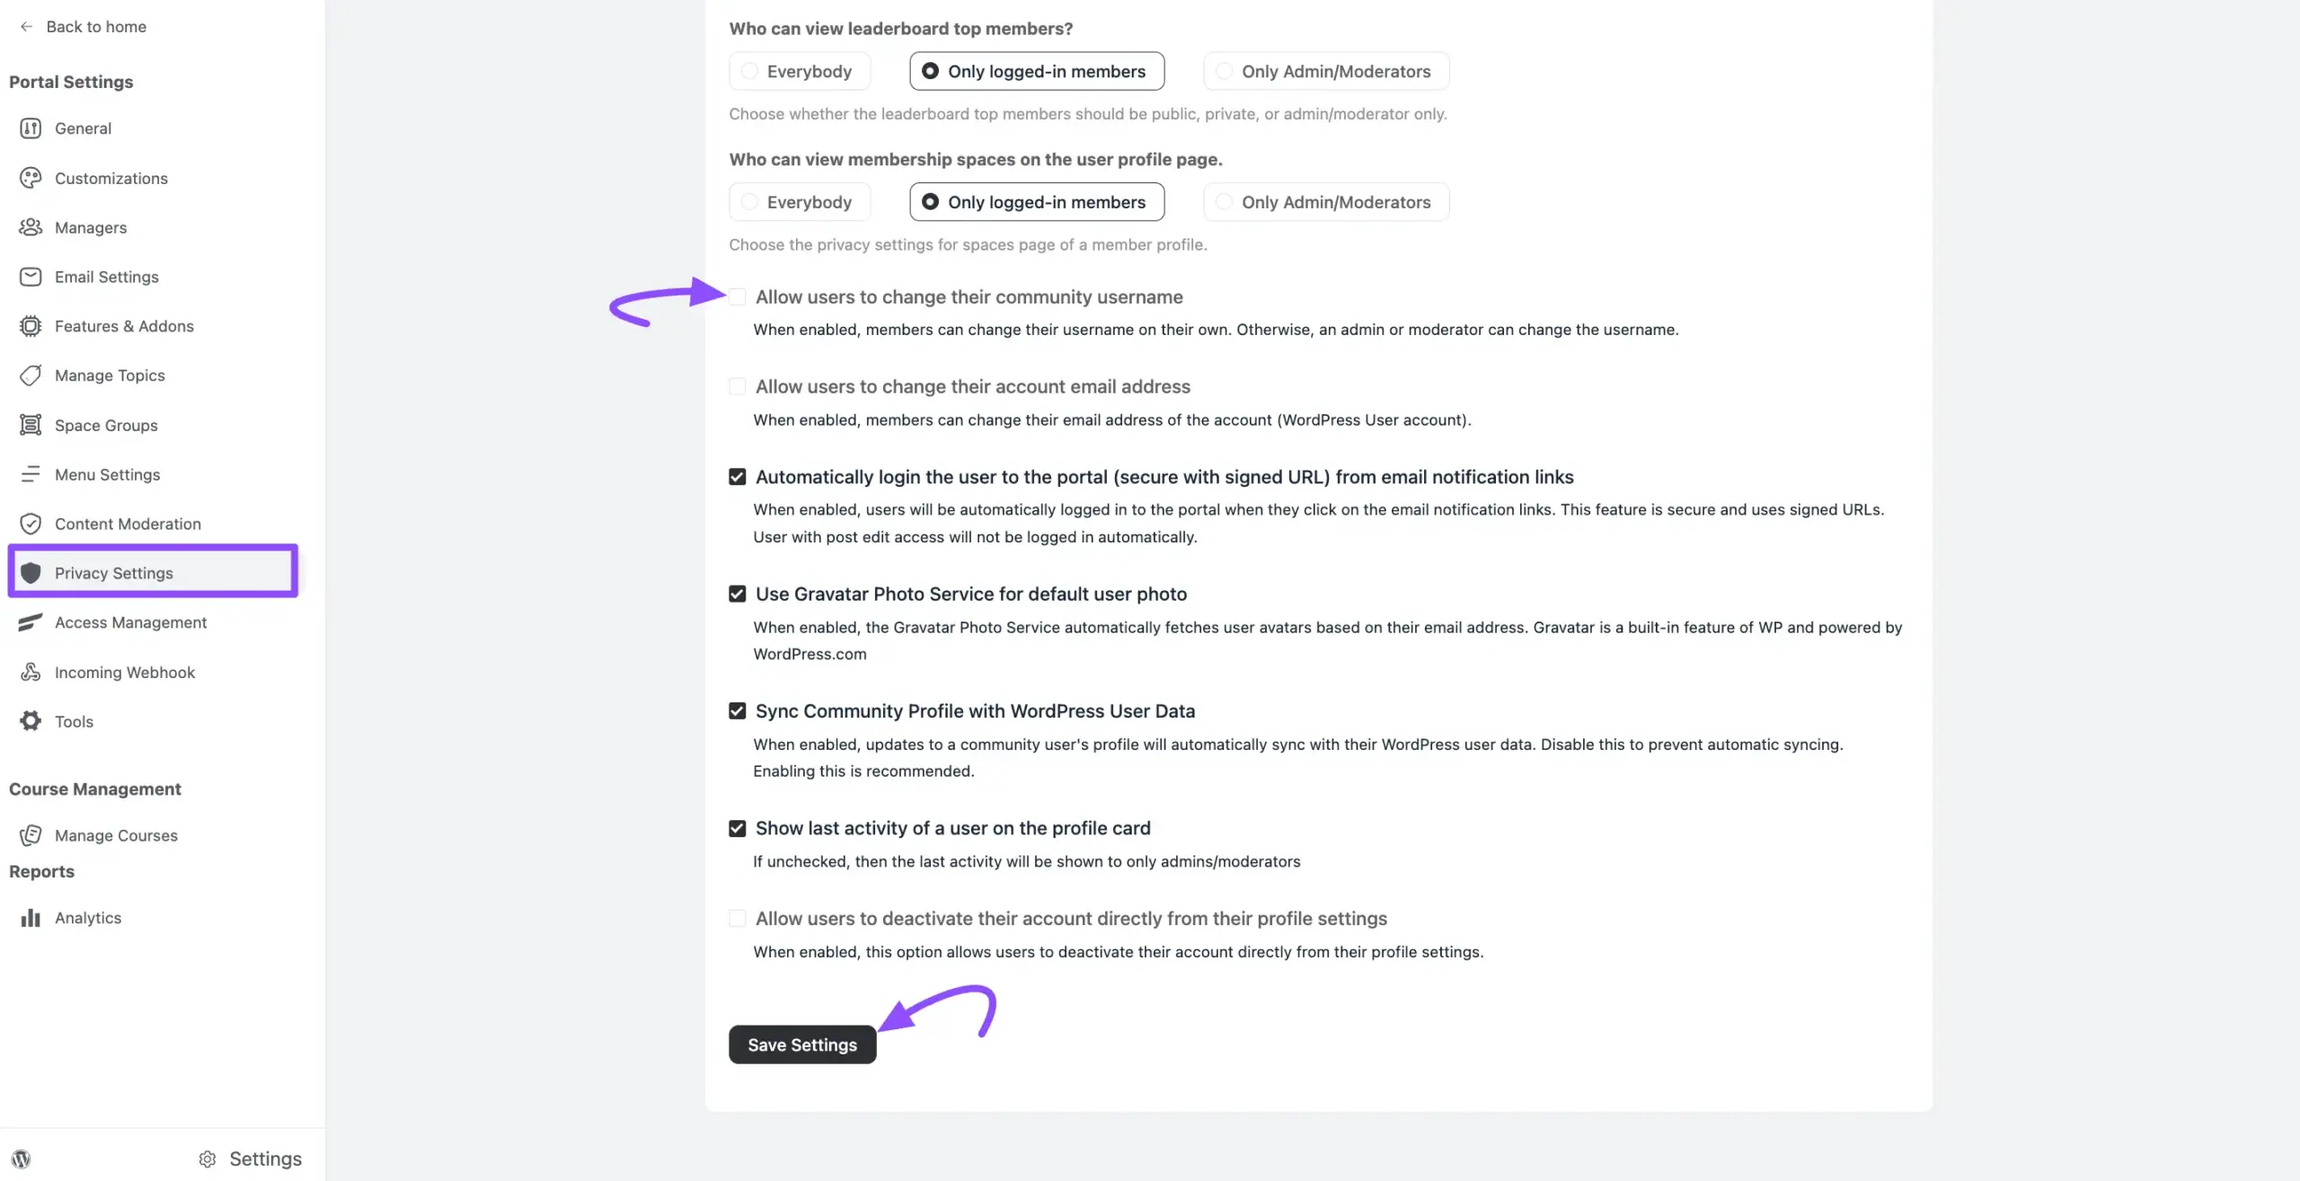
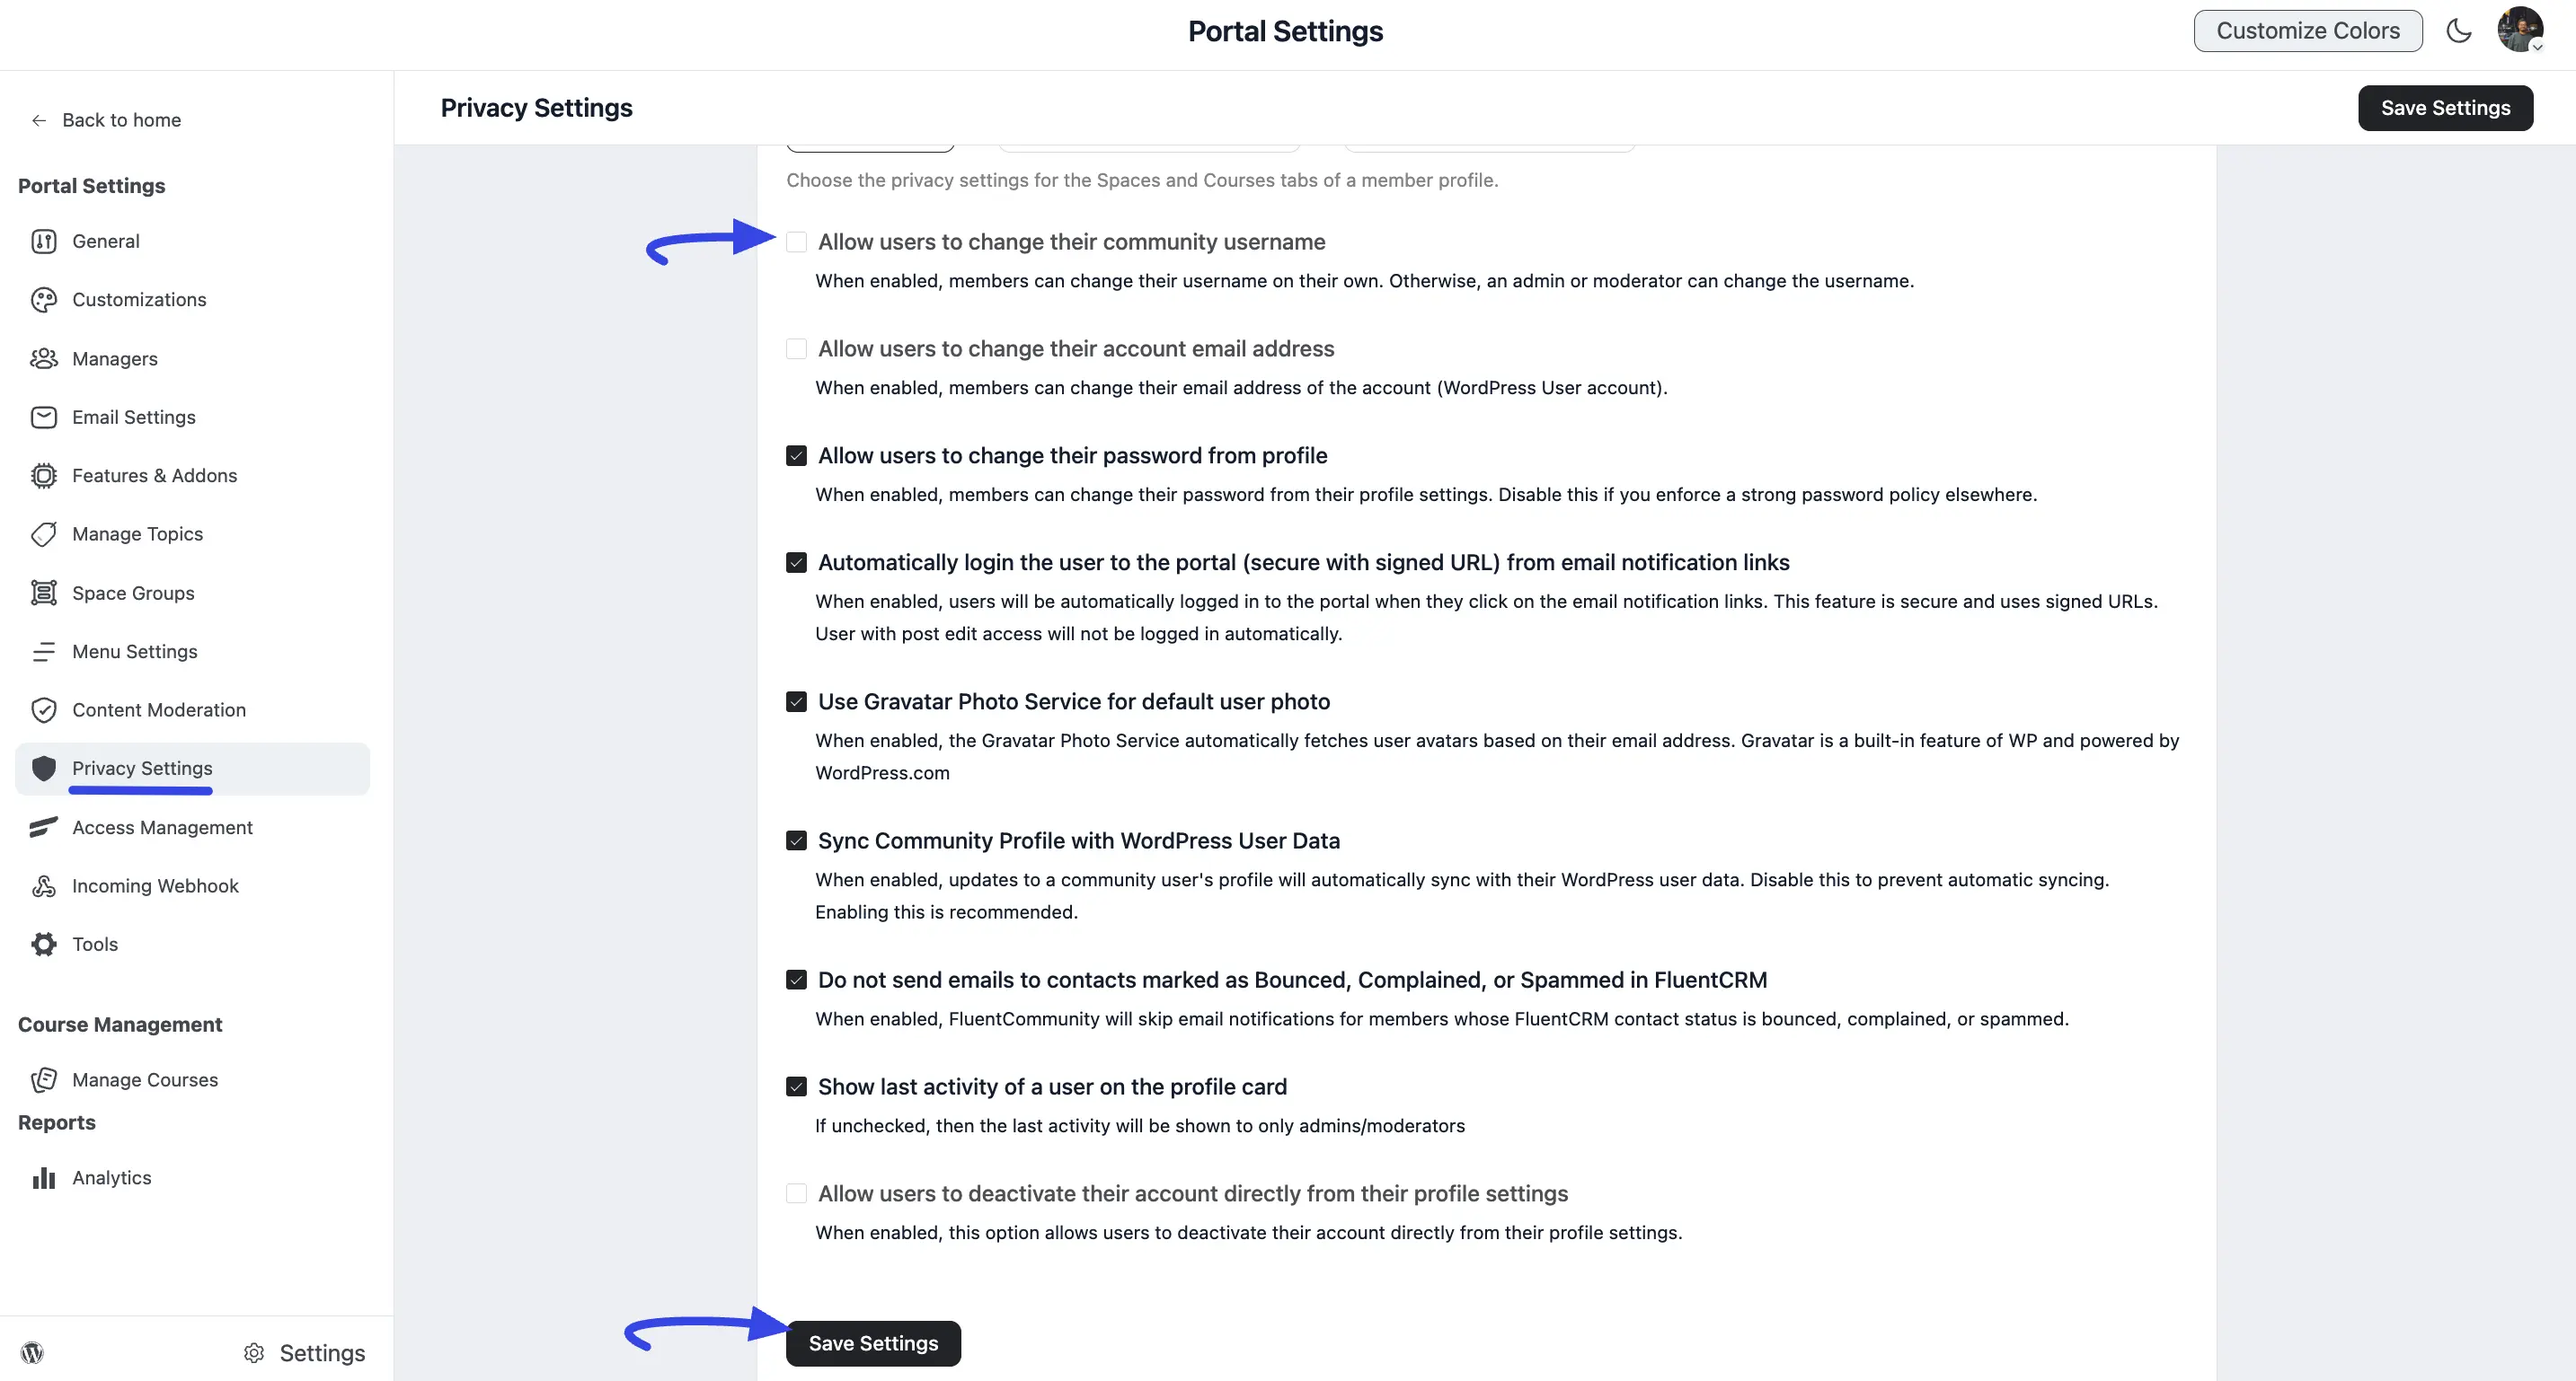
update Privacy Settings doc

diff --git a/docs/portal-settings/privacy-settings.md b/docs/portal-settings/privacy-settings.md
@@ -21,12 +21,13 @@ These options control who has access to view various parts of your community. Fo
 
 - **Who can view [leaderboard](/setting-up-leaderboards) top members?** Sets the visibility for the community leaderboard and its top-ranked members.
 
-- **Who can view membership spaces on the user profile page?** Determines who can see the list of spaces a member has joined when viewing their profile.
+- **Who can view spaces and courses on the user profile page?** Controls the privacy of the Spaces and Courses tabs shown on a member's profile.
+
+> [!Note]
+> Users can always view their own profile, regardless of the option chosen for "Who can view user profile page?" Every notification and outgoing email also shows a member's public community profile name, not their WordPress account name from registration, so no one's legal name is exposed to other members.
 
 ![The Visibility Permissions options in Privacy Settings](/images/portal-settings/privacy-settings/accessing-privacy-settings-1-scaled.webp)
 
-> [!Note]
-> Every notification and outgoing email now shows a member's public community profile name, not their WordPress account name from registration, so no one's legal name is exposed to other members.
 
 ## Member Account Permissions
 
@@ -36,7 +37,9 @@ Admins can decide which account details members are allowed to manage on their o
 
 - **Allow users to change their account email address:** Enabling this allows members to update their WordPress user account email directly.
 
-- **Allow users to deactivate their account directly from their profile settings:** This gives members the option to disable their own accounts through their personal settings.
+- **Allow users to change their password from profile:** When enabled, members can change their own password from their profile settings. Disable this if you enforce a strong password policy elsewhere (for example, through SSO).
+
+- **Allow users to deactivate their account directly from their profile settings:** This gives members the option to deactivate their own accounts through their personal profile settings.
 
 ## System and Profile Configuration
 
@@ -46,13 +49,13 @@ Admins can decide which account details members are allowed to manage on their o
 For security, users with post edit access will not be logged in automatically.
 :::
 
-- **Use Gravatar Photo Service for default user photo:** When enabled, the system automatically fetches user avatars based on their email address via Gravatar.
+- **Use Gravatar Photo Service for default user photo:** When enabled, Gravatar (a built-in WordPress feature powered by WordPress.com) automatically fetches user avatars based on their email address.
 
-- **Sync Community Profile with WordPress User Data:** Enabling this ensures that any updates to a user's community profile automatically sync with their WordPress user data.
+- **Sync Community Profile with WordPress User Data:** Enabling this ensures that any updates to a user's community profile automatically sync with their WordPress user data. Disable this to prevent automatic syncing — enabling it is recommended.
 
 - **Show last activity of a user on the profile card:** When checked, the user's most recent activity time will be visible on their profile card. If unchecked, this information is only visible to admins and moderators.
 
-- **Do not send emails to contacts marked as Bounced, Complained, or Spammed in FluentCRM:** When enabled, community notification emails skip any member whose [FluentCRM](/connecting-with-fluentcrm) contact is marked Bounced, Complained, or Spammed — protecting your sender reputation. Requires FluentCRM to be connected.
+- **Do not send emails to contacts marked as Bounced, Complained, or Spammed in FluentCRM:** When enabled, community notification emails skip any member whose [FluentCRM](/connecting-with-fluentcrm) contact is marked Bounced, Complained, or Spammed, protecting your sender reputation. Requires FluentCRM to be connected.
 
 ![The Member Account Permissions and System Configuration options](/images/portal-settings/privacy-settings/Member-Account-Permissions-2-scaled.webp)
 
